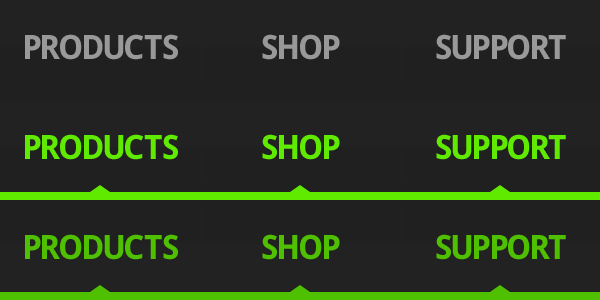
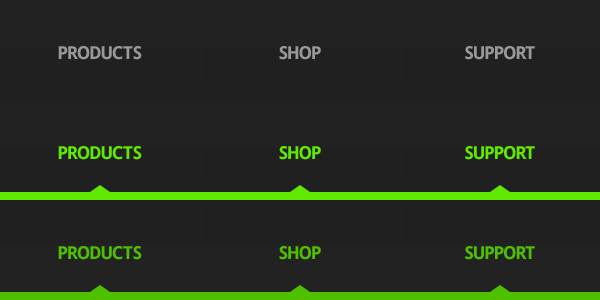
Lab 4
Having issues with centering the head bar.

diff --git a/lab4/css/main.css b/lab4/css/main.css
@@ -30,10 +30,28 @@ body {
 
 /* !Navigation
 ======================================== */
-nav {
-	/* float: right; */
+body {
+	position: relative;
 	}
 
+header {
+	position: absolute;
+	left: 0;
+	right: 0;
+	width: 100%
+	height: 100px;
+	background: url("../images/logo-bg.jpg") repeat-x;
+	}
+
+#logo {
+	display: block;
+	background: url("../images/logo.png") no-repeat left center;
+	float: left;
+	width: 340px;
+	height: 100px;
+	color: #FFF;
+	}
+	
 nav ul {
 	list-style: none;
 	width: 600px;
@@ -48,13 +66,19 @@ nav ul li {
 nav ul li a {
 	display: block;
 	background: url("../images/global-nav.jpg") no-repeat;
-	text-indent: -9999px;
 	}
+
+.hide-text {
+text-indent: 200%;
+white-space: nowrap;
+overflow: hidden;
+}
 	
 /* ----- !Products ----- */
 #products {
 	width: 200px;
 	height: 100px;
+	background-position: 0px 0px;
 	}
 #products:hover {
 	background-position: 0px -100px;
@@ -95,17 +119,23 @@ nav ul li a {
 ======================================== */
 #cta {
 	position: relative;
+	top: 100px;
 	}
 
 #cta .button {
 	display: block;
 	background-color: #01E900;
+	font: 20px/50 'Droid Sans', sans-serif;
 	width: 260px;
 	height: 50px;
+	font-weight: bold;
 	text-align: center;
 	line-height: 50px;
-	color: #2E2E2E;
+	color: ##222222;
 	position: absolute;
 	top: 270px;
 	left: 35px;
+	border-radius: 3px;
+	border: 1px solid #04A301;
+	box-shadow: inset 1px -1px 0 0 #5AF458;
 	}

diff --git a/lab4/index.html b/lab4/index.html
@@ -3,6 +3,7 @@
 	<head>
 		<meta charset="utf-8">
 		<link rel="stylesheet" href="css/main.css">
+		<link real="stylehseet" href="http://fonts.googleapis.com/css?family=Droid+Sans:400,700">
 		<title>TRON: Legacy</title>
   </head>
 	
@@ -10,17 +11,19 @@
   	<div id="wrapper">
 			<header>
 				<section>
-					<h1>Tron Gaming Products by Razer</h1>
-					<nav>
-						<ul>
-							<li><a id="products" href="#">Products</a></li>
-							<li><a id="shop" href="#">Shop</a></li>
-							<li><a id="support" href="#">Support</a></li>
-						</ul>
-					</nav>
+					<div id="container">
+						<h1 id="logo" class="hide-text">Tron Gaming Products by Razer</h1>
+						<nav>
+							<ul>
+								<li><a class="hide-text" id="products" href="#">Products</a></li>
+								<li><a class="hide-text" id="shop" href="#">Shop</a></li>
+								<li><a class="hide-text" id="support" href="#">Support</a></li>
+							</ul>
+						</nav>
+					</div> <!-- /container -->
 				</section>
 			</header>
-		
+					
   		<section id="cta">				
       	<h1>Razer Press Release</h1>
       	<div><img src="images/tron-keyboard-main.jpg" alt="Photograph of the new Tron Gaming Keyboard by Razer"></div>
